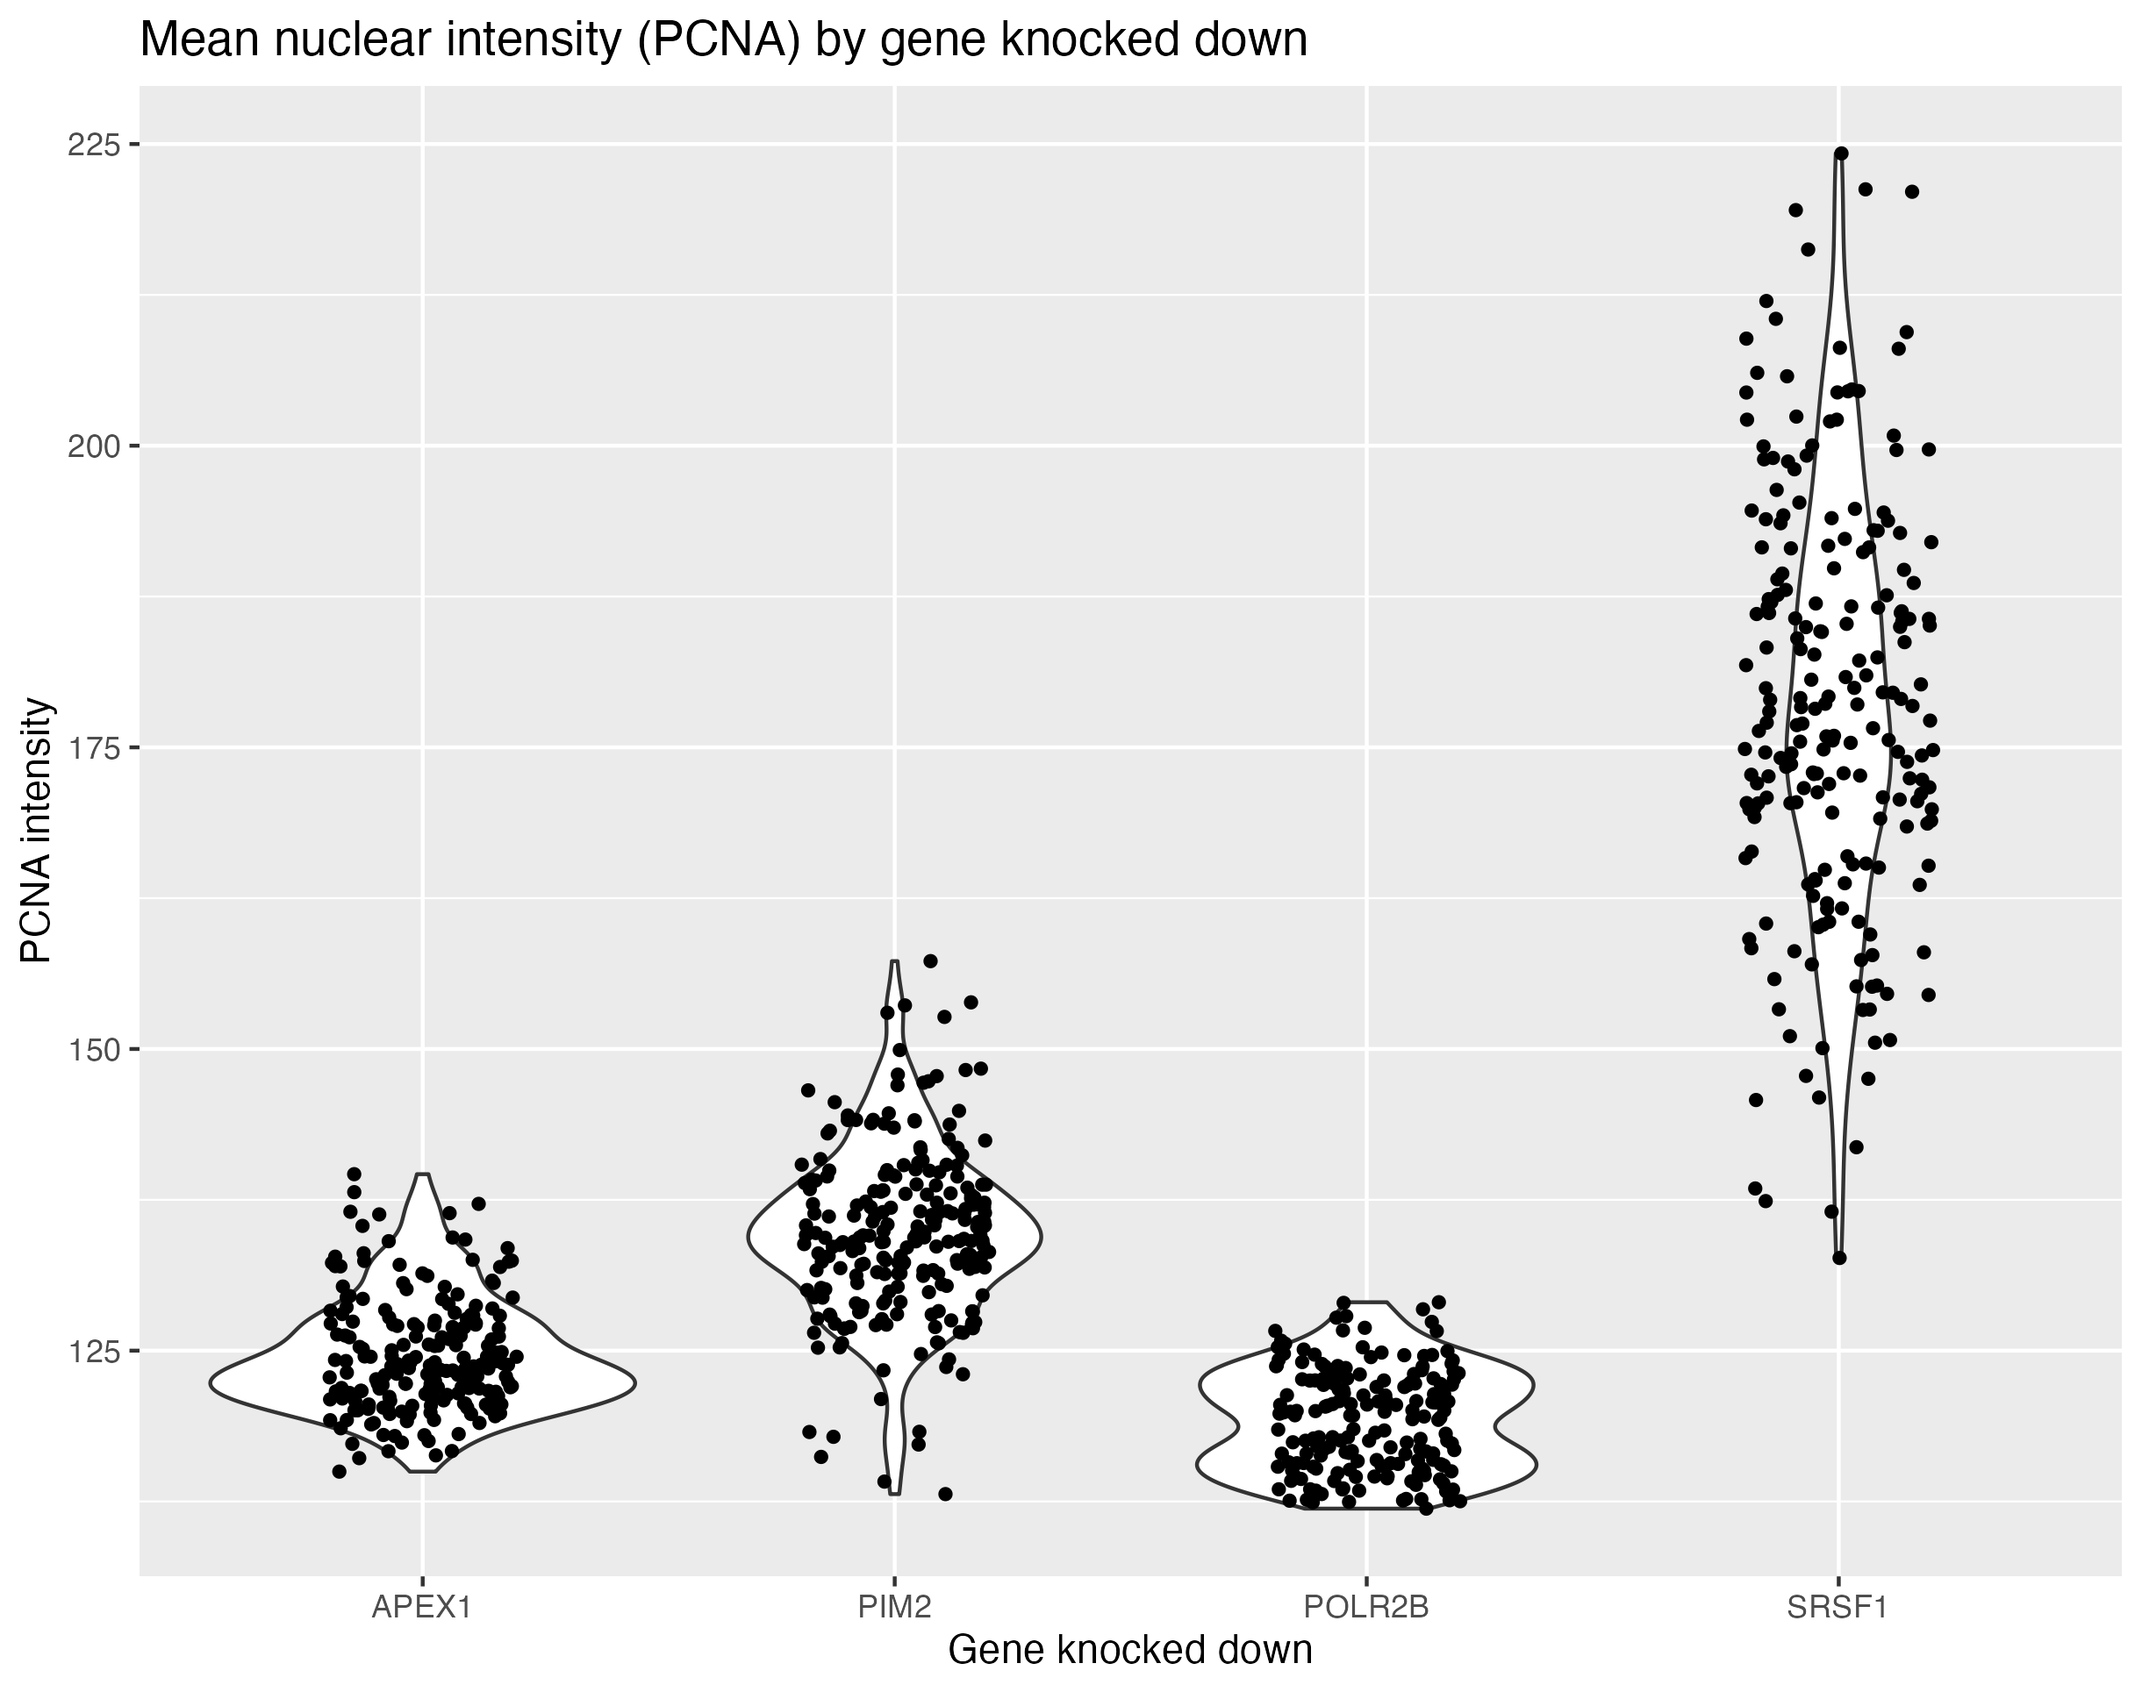
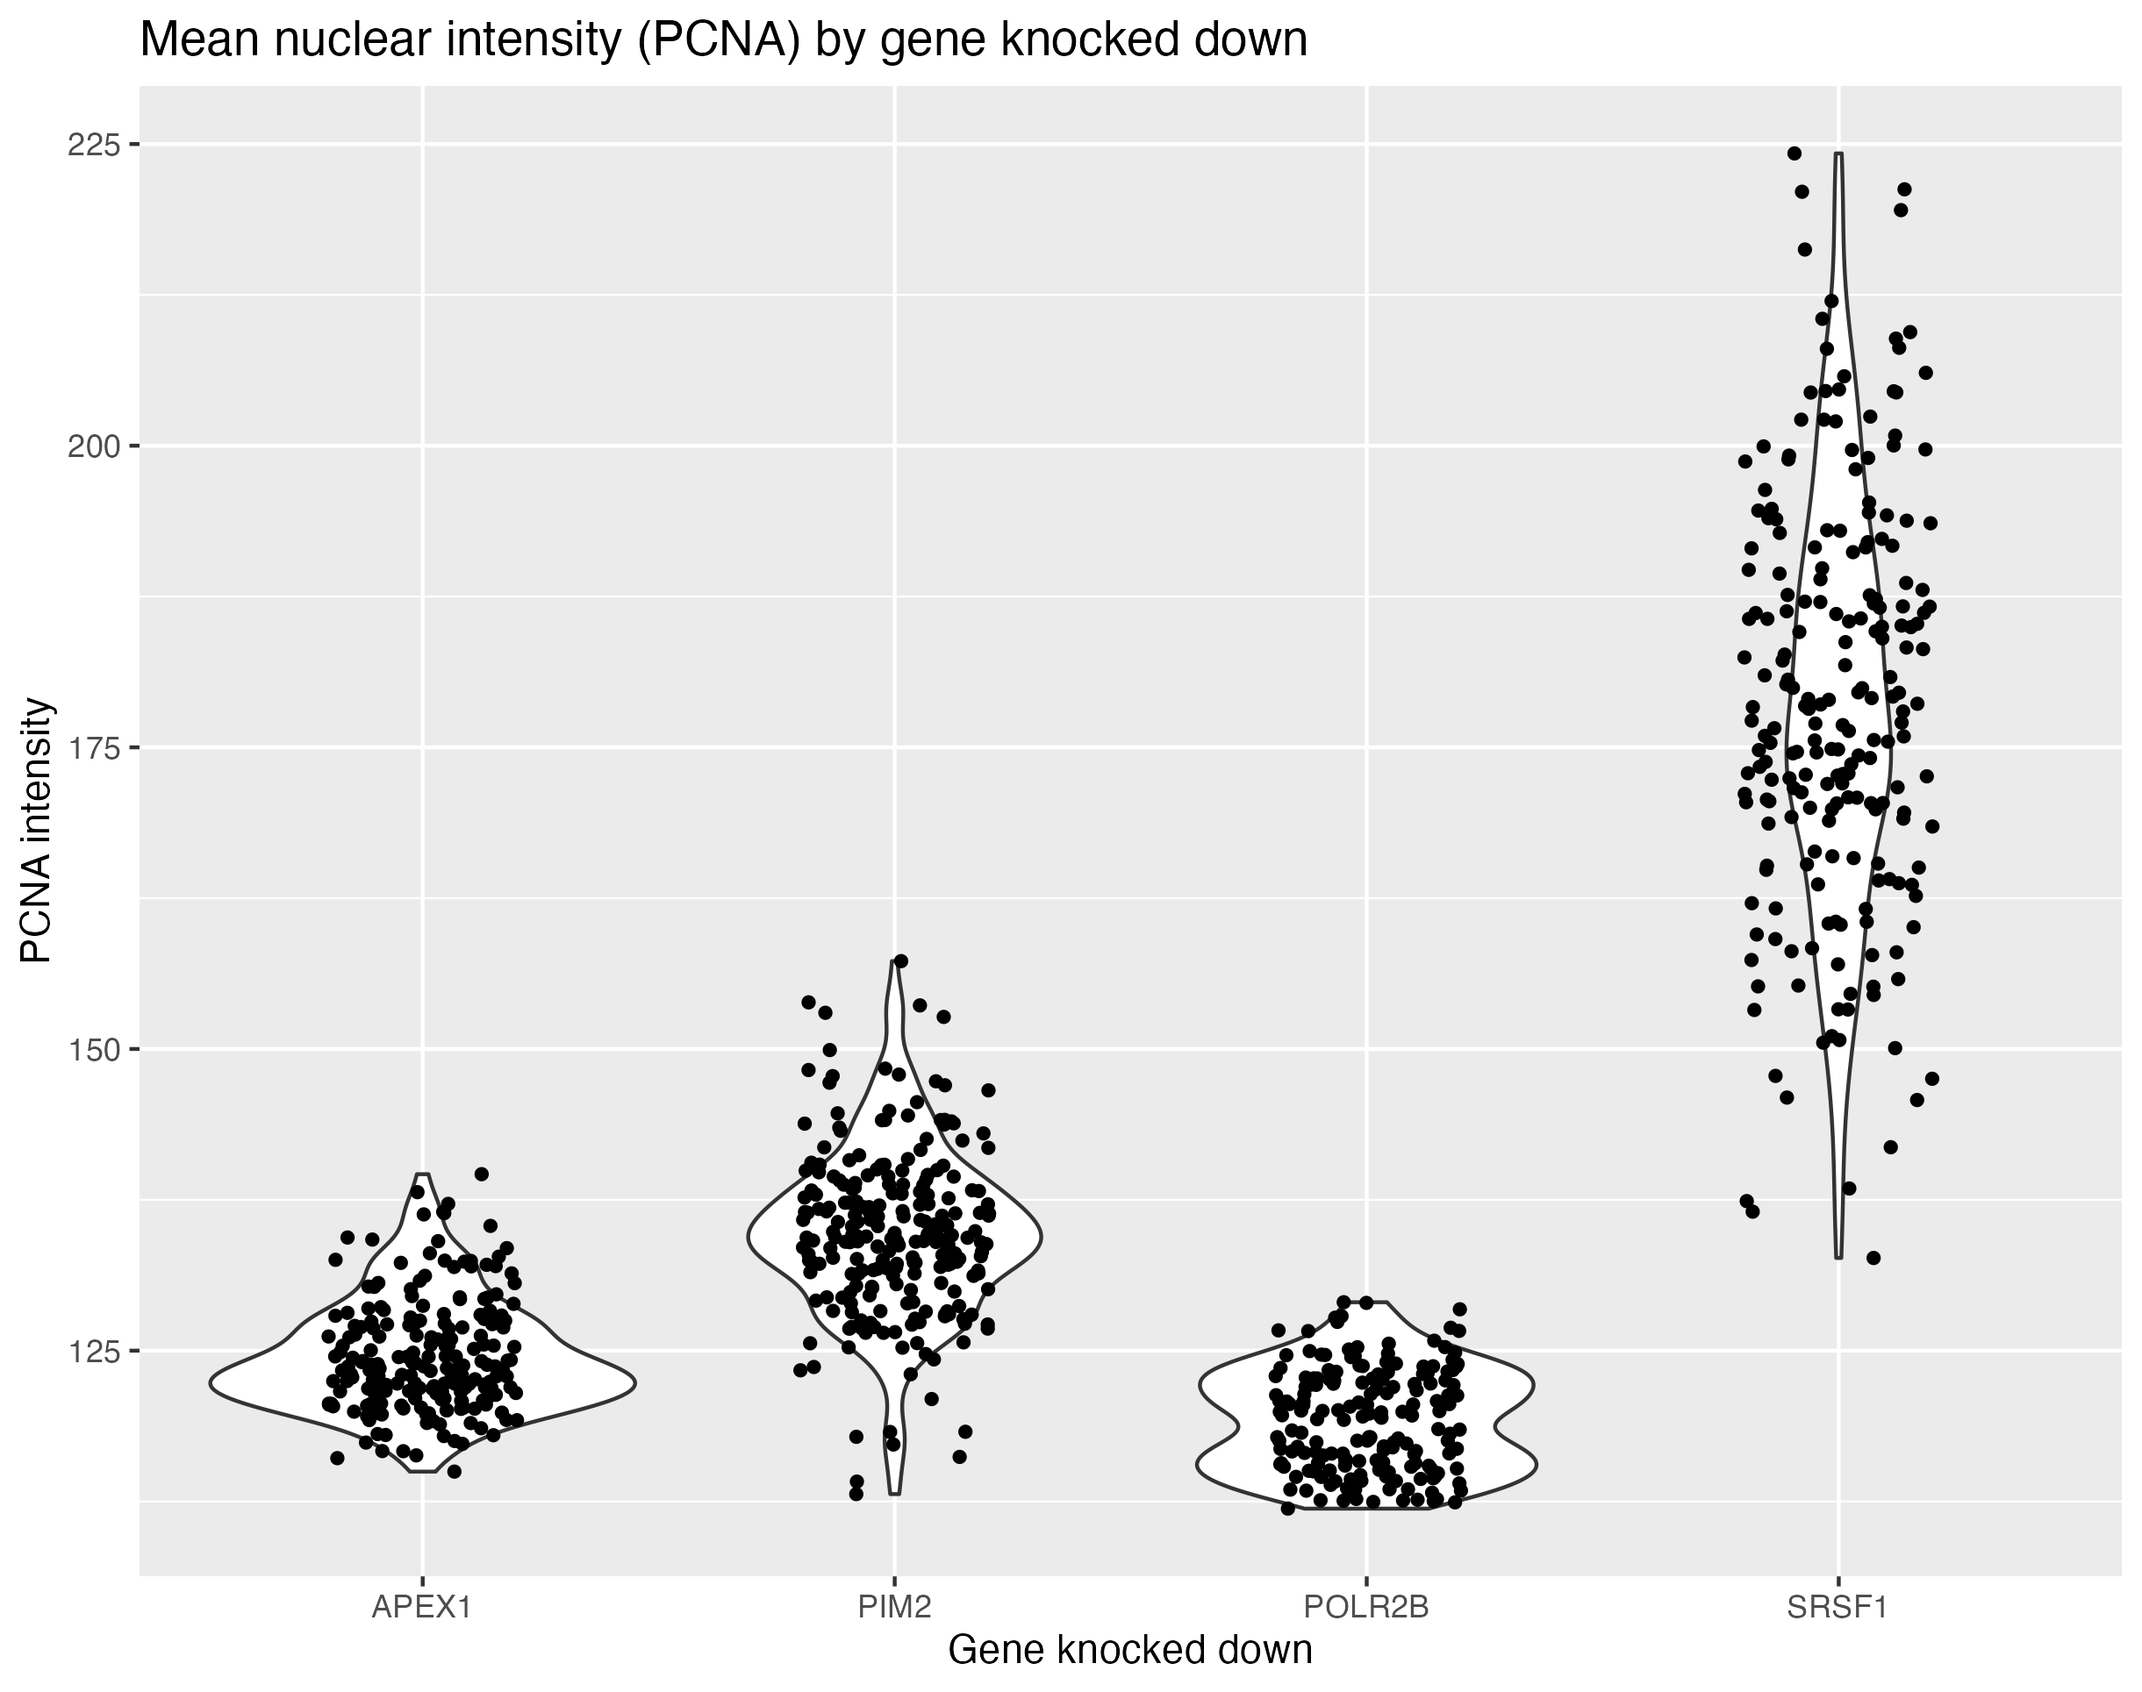
Switching ratio

diff --git a/week10/week10.py b/week10/week10.py
@@ -285,24 +285,27 @@ for gene in genes:
         # 1. Mean PCNA signal
         # 2. Mean nascent RNA signal 
         # 3. log2-transformed ratio of mean nascent RNA signal to mean PCNA signal
+
         # Select just PCNA channel
         PCNA = merged_array[:, :, 1]
-
         # Select just nascent RNA channel
         nascentRNA = merged_array[:, :, 2]
-
+        # Determine the number assigned to the last nucelus 
         nucleus_max = np.amax(labels)
 
-    
-
         for i in range(1, nucleus_max+1):
+            #Determine the positions of nucelus i 
             positions = np.where(labels == i)
+            #Find the PCNA intensity for all the pixels in nucleus i
             PCNA_pixel = PCNA[positions]
+            #Find the nascent RNA intensity for all the pixels in nucleus i
             RNA_pixel = nascentRNA[positions]
-            
+            #Calculate the mean PCNA intensity for all the pixels in nucleus i 
             PCNA_mean = np.mean(PCNA_pixel)
+            #Calculate the mean nascent RNA intensity for all the pixels in nucleus i 
             RNA_mean = np.mean(RNA_pixel)
-            log2_ratio = np.log2(PCNA_mean/RNA_mean)
+            #Calculate the log2-transformed ratio of mean PCNA intensity to mean 
+            log2_ratio = np.log2(RNA_mean/PCNA_mean)
             fs.write(f"{gene}\t{RNA_mean}\t{PCNA_mean}\t{log2_ratio}\n")
             
 fs.close()
